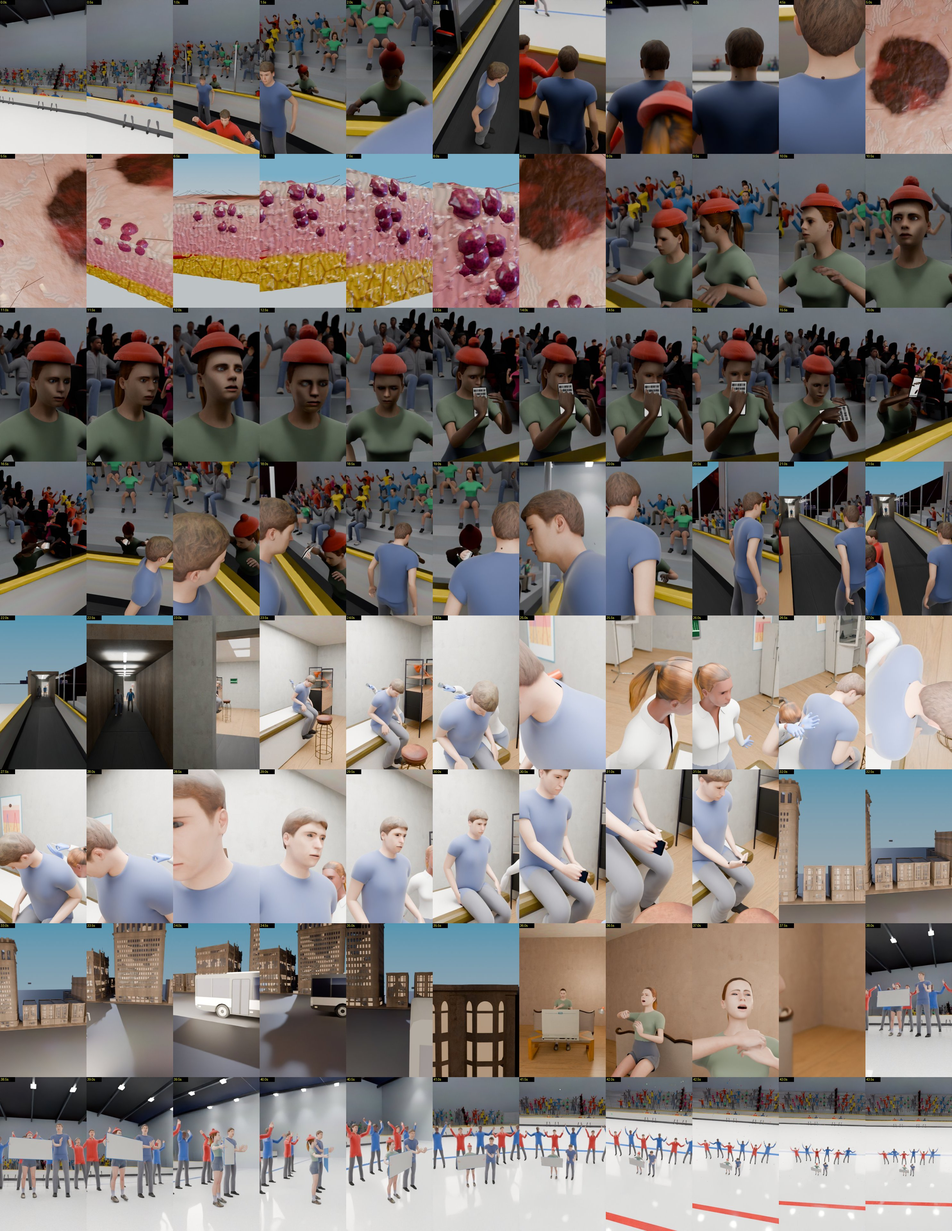
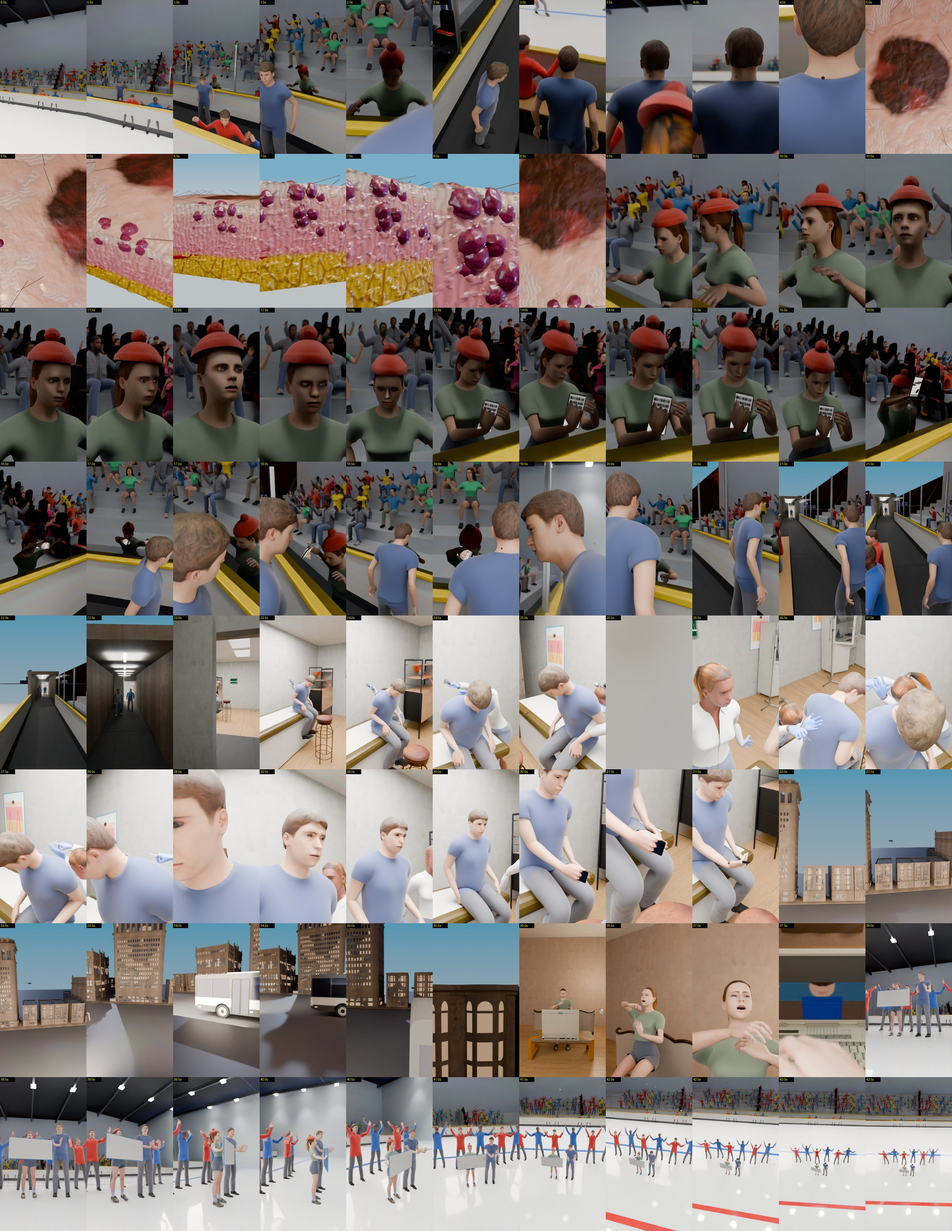
FanCancer v003 follow-up: clinic camera off the wall at 25.5 s, doctor posture
Claude-Session: https://claude.ai/code/session_01XfwPSk93UWnMkBZTKcWA3L

diff --git a/blender/FanCancer_v001/scripts/04_camera.py b/blender/FanCancer_v001/scripts/04_camera.py
@@ -91,8 +91,8 @@ K = [
     (23.6, V((-26.3, -0.75, 1.70)), V((-28.6, -2.2, 1.25)), 30, False),
     (24.3, V((-27.4, -0.95, 1.95)), moleB, 38, False),
     (25.0, V((-29.35, -1.35, 1.80)), moleB + V((0, 0.12, -0.08)), 34, False),   # front-left, wide: the doctor's scope at his neck and his face               # the dermatoscope on the mole
-    (25.45, V((-28.85, -2.95, 1.85)), docH, 45, False),
-    (25.8, V((-28.45, -2.88, 1.70)), docH, 42, False),                 # doctor's serious face
+    (25.45, V((-28.45, -2.70, 2.05)), docH, 36, False),
+    (25.8, V((-28.15, -2.65, 1.85)), docH, 36, False),                 # doctor's serious face
     (26.6, V((-27.8, -2.75, 2.2)), moleB, 40, False),               # overhead on the hands
     (27.0, V((-28.2, -1.55, 1.85)), moleB, 36, False),
     (27.4, V((-29.10, -1.45, 1.75)), moleB, 34, False),
@@ -111,7 +111,7 @@ K = [
     (35.9, HMv + V((0, -3.0, 1.45)), HMv + V((0, 1.0, 1.0)), 40, True),  # through the curtain into her room
     (36.5, HMv + V((0.95, 0.15, 1.15)), fanH12, 35, False),
     (37.2, HMv + V((-0.45, 0.55, 1.05)), fanH12, 50, False),
-    (37.5, LAPSCR + ls_n * 0.75 + V((0, 0, 0.30)), LAPSCR + V((0, 0, -0.05)), 38, False),   # her laptop, the call on screen
+    (37.5, LAPSCR + ls_n * 0.85 + V((0.25, 0, 0.35)), LAPSCR + V((0, 0.25, 0.05)), 32, False),   # her laptop, the call on screen
     (37.72, LAPSCR + ls_n * 0.30 + V((0, 0, 0.06)), LAPSCR, 45, False),
     (37.9, LAPSCR + ls_n * 0.008, LAPSCR, 45, False),
     (37.9, FIN + V((1.2, -3.4, 0.35)), FIN + V((0, 0, 1.0)), 28, True),  # out of the screen onto the ice

diff --git a/blender/FanCancer_v001/scripts/03_animate.py b/blender/FanCancer_v001/scripts/03_animate.py
@@ -340,8 +340,8 @@ def doc_anim():
     doc.pose(f(20.0), DOCP, 90, flex=10, head=(16, 0))
     doc.pose(f(22.6), DOCP, 90, flex=24, head=(26, -10), hands=scope)
     face(DR, f(22.6), brow=-0.2, frown=0.6, squint=0.6)
-    doc.pose(f(23.8), DOCP + Vector((0.05, 0, 0)), 95, flex=30, head=(30, -6), hands=scope)
-    doc.pose(f(24.8), DOCP + Vector((0.08, 0, 0)), 95, flex=32, head=(32, -4), hands=scope)
+    doc.pose(f(23.8), DOCP + Vector((0.05, 0, 0)), 95, flex=24, head=(20, -6), hands=scope)
+    doc.pose(f(24.8), DOCP + Vector((0.08, 0, 0)), 95, flex=24, head=(20, -4), hands=scope)
     face(DR, f(25.2), brow=0.4, frown=1.0, smile=-0.4)                         # serious
     doc.pose(f(25.45), DOCP + Vector((0.04, 0, 0)), 88, flex=12, head=(14, 12), hands={"R": ((-0.21, -0.03, 0.92), (0, -0.1, -1), (1, 0, 0))})   # scope into her coat pocket
     doc.pose(f(25.6), DOCP, 80, flex=10, head=(4, 26))                         # turns to him, explains
